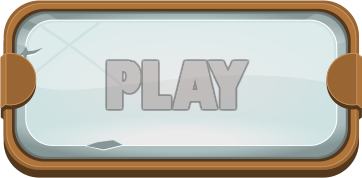
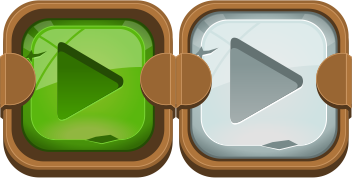
Score is now updating

diff --git a/socketServer.js b/socketServer.js
@@ -1,16 +1,8 @@
-function getSocket(server, user, now) {
+function getSocket(server, user) {
     var io = require('socket.io', { rememberTransport: false, transports: ['WebSocket', 'Flash Socket', 'AJAX long-polling'] }).listen(server);
-    if (now) {
-
-    }
-
 
     serverInfo = {
-        user: user,
-        lastPlayerID: 0,
-        connectedUsers: 0,
-        matchTime: 300000,
-        haveTimer: false
+        user: user
     }
     server.lastPlayerID = 0;
     server.connectedUsers = 0;
@@ -19,35 +11,41 @@ function getSocket(server, user, now) {
 
 
     serverObjects = [];
-    // if (user) {
-    // username = user;
-    // }
-    // server.asd = username;
-    // console.log("USERNAME          ", username); //1 2 
 
 
     io.on('connection', function (socket) {
+        // Object.keys(io.sockets.connected).forEach(function (socketID) {
+        //     if (io.sockets.connected[socketID].player) {
+        //         if (io.sockets.connected[socketID].player.username == serverInfo.user[0].username) {
+        //             io.to(socket.id).emit('samePerson');
+
+        //             samePerson = true;
+        //         }
+        //     }
+        // });
 
         if (!server.haveTimer) {
             server.haveTimer = true;
             timer = setInterval(function () {
                 server.matchTime -= 1000;
-                if (server.matchTime <= 0) {
-                    io.emit('endGame');
+                if (server.matchTime <= 270000) {
+                    io.emit('stopGame');
                     clearInterval(timer);
+                    server.haveTimer = false;
+                    server.matchTime = 300000;
                 }
             }, 1000);
         }
 
 
         socket.on('newplayer', function (data) {
-            // server.user = username;
+
 
             server.connectedUsers++;
             socket.player = data;
             socket.player.isHost = false;
             socket.player.id = server.lastPlayerID++;
-            socket.player.username = "asd"//serverInfo.user;
+            socket.player.username = serverInfo.user[0].username;
             socket.player.health = 100;
             socket.player.energy = 100;
             socket.player.isInAir = false;
@@ -70,7 +68,19 @@ function getSocket(server, user, now) {
             }
 
 
+            socket.on('score', function (data) {
+                Object.keys(data).forEach(function (key) {
+                    socket.player[key] = data[key];
+                });
+                var player = serverInfo.user[0];
+                var killsSum = data.kills + player.kills;
+                var deathsSum = data.deaths + player.deaths;
+                var scoreSum = data.score + player.score;
+                users.update({ username: socket.player.username }, { $set: { kills: killsSum, deaths: deathsSum, score: scoreSum } }).then(function () {
+                    io.to(socket.id).emit('endGame');
+                });
 
+            });
 
             socket.on('createPlayer', function (data) {
                 socket.emit('allplayers', { players: getAllPlayers(), id: socket.player.id, timer: server.matchTime });

diff --git a/public/javascripts/game.js b/public/javascripts/game.js
@@ -225,6 +225,16 @@ phinalphase.Game.updatePlayer = function (id) {
     player.updatePlayer();
 }
 
+phinalphase.Game.getScore = function () {
+    phinalphase.game.matchTimerText.setText('00:00');
+    phinalphase.game.endText = phinalphase.fixedText(400, 250, "The Match Ended", "40px Arial", "#AAA", "center");
+    phinalphase.game.endText.anchor.setTo(0.5);
+    setTimeout(function () {
+    phinalphase.game.paused = true;        
+    }, 500);
+    var player = phinalphase.Game.playerMap[phinalphase.playerID];
+    Client.sendScore({ kills: player.kills, deaths: player.deaths, score: player.score });
+}
 
 
 phinalphase.Game.prototype = {
@@ -287,13 +297,10 @@ phinalphase.Game.prototype = {
 
 
         phinalphase.game.time.events.add(2000, function () {
-            this.matchTimer = this.time.create(false);
-            this.matchTimer.add(phinalphase.matchTime || 20000, function () {
-
-            }, this);
-            this.matchTimer.start();
-            this.matchTimerText = phinalphase.fixedText(450, 20, "__", "20px Arial", "#AAA", "center");
-
+            phinalphase.game.matchTimer = this.time.create(false);
+            phinalphase.game.matchTimer.add(phinalphase.matchTime || 20000, null, this);
+            phinalphase.game.matchTimer.start();
+            phinalphase.game.matchTimerText = phinalphase.fixedText(450, 20, "__", "20px Arial", "#AAA", "center");
         }.bind(this));
 
 
@@ -304,16 +311,16 @@ phinalphase.Game.prototype = {
 
     update: function () {
 
-        if (this.matchTimer) {
-            var min = Math.floor((this.matchTimer.duration / 1000) / 60);
+        if (phinalphase.game.matchTimer) {
+            var min = Math.floor((phinalphase.game.matchTimer.duration / 1000) / 60);
             if (min.toString().length <= 1) {
                 min = '0' + min;
             }
-            var sec = Math.floor((this.matchTimer.duration / 1000) % 60);
+            var sec = Math.floor((phinalphase.game.matchTimer.duration / 1000) % 60);
             if (sec.toString().length <= 1) {
                 sec = '0' + sec;
             }
-            this.matchTimerText.setText(min + ':' + sec);
+            phinalphase.game.matchTimerText.setText(min + ':' + sec);
         }
 
 

diff --git a/public/javascripts/client.js b/public/javascripts/client.js
@@ -38,6 +38,9 @@ Client.sendUpdatesPlayer = function (properties) {
     Client.socket.emit('updatePlayer', properties);
 }
 
+Client.sendScore = function (data) {
+    Client.socket.emit('score', data);
+}
 
 Client.socket.on('newplayer', function (data) {
     phinalphase.Game.addNewPlayer(data);
@@ -89,8 +92,18 @@ Client.socket.on('createMap', function (data) {
     phinalphase.Game.createMapFromServer(data);
 });
 
+Client.socket.on('stopGame', function () {
+    phinalphase.Game.getScore();
+});
+
 Client.socket.on('endGame', function () {
-    console.log('end');
+    setTimeout(function () {
+        window.location.assign("http://localhost:5000/");
+    }, 5000);
+});
+
+Client.socket.on('samePerson', function (id) {
+    window.location.assign("http://localhost:5000/");
 });
 
 Client.socket.on('remove', function (id) {

diff --git a/public/javascripts/mainmenu.js b/public/javascripts/mainmenu.js
@@ -58,11 +58,18 @@ phinalphase.MainMenu.prototype = {
         this.buttons.add(this.char1Btn);
         this.buttons.add(this.char2Btn);
 
-        this.button = this.game.add.button(this.game.world.centerX - 95, 400, 'playButton', function () {
+        this.button = this.game.add.button(this.game.world.centerX - 40, 450, 'playButton', function () {
+            this.button.frame = 1;
             this.state.start('Game');
         }, this);
 
-        this.button.scale.setTo(0.5);
+        this.button.onInputOver.add(function () {
+            this.button.frame = 1;
+        }, this);
+        this.button.onInputOut.add(function () {
+            this.button.frame = 0;
+        }, this);
+        this.button.scale.setTo(0.4);
 
 
 

diff --git a/public/javascripts/preload.js b/public/javascripts/preload.js
@@ -95,7 +95,7 @@ phinalphase.Preload.prototype = {
 
         //MainMenu
 
-        this.load.image('playButton', '/assets/GUI/play.png');
+        this.load.spritesheet('playButton', '/assets/GUI/play.png', 175, 175);
         this.load.image('menuBG', '/assets/GUI/menuBG.jpg');
         this.load.spritesheet('buttonOnOff', '/assets/GUI/onoff.png', 175, 175);
         this.load.image('ninjaLogo', '/assets/GUI/ninjaLogo.png');

diff --git a/public/javascripts/player.js b/public/javascripts/player.js
@@ -311,8 +311,8 @@ phinalphase.Player.prototype.updatePlayer = function () {
         return;
     }
 
-    this.usernameText.x = this.body.x + 10;
-    this.usernameText.y = this.body.y - 25;
+    this.usernameText.x = this.body.x;
+    this.usernameText.y = this.body.y - 35;
 
     var player = phinalphase.Game.playerMap[phinalphase.playerID];
     if (isNaN(this.body.velocity.y)) {

diff --git a/public/javascripts/tiledObjects.js b/public/javascripts/tiledObjects.js
@@ -135,6 +135,7 @@ phinalphase.TiledGroupDamage.prototype.collideLayer = null;
 
 
 phinalphase.TiledGroupDamage.prototype.overlapPlayer = function (player, object) {
+    player.body.velocity.y -= 10;
     player.act('STRIKED', object);
 }
 
